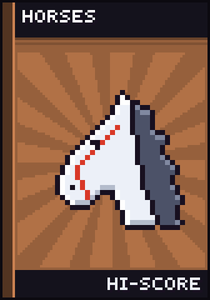
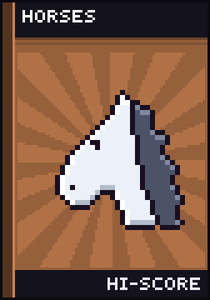
fix(art): draw the horses art without a bridle

Changed region(s): [[0.3429, 0.48, 0.4571, 0.69], [0.4571, 0.42, 0.5714, 0.48]]

diff --git a/tools/gen_theme_art.py b/tools/gen_theme_art.py
@@ -1157,15 +1157,12 @@ def ys(p):  # wings around the black pearl
     p.o(0, 0, 6)
 
 
-def horses(p):  # horse's head in a bridle
+def horses(p):  # a horse's head
     p.pg([(10, -40), (26, -36), (30, -26), (40, -24), (38, -12), (48, -6), (44, 6), (52, 14), (46, 26), (52, 36),
           (44, 46), (20, 46)], 3)
     head = spline([(14, 46), (8, 24), (0, 14), (-16, 22), (-30, 28), (-40, 20), (-38, 6), (-28, -14), (-14, -30),
                    (-2, -36), (6, -50), (14, -38), (24, -22), (34, 10), (40, 46)])
     p.path(head, True, opaque=True)
-    with p.inside(head):
-        p.c([(-44, -16), (-30, 4), (-18, 32)])
-        p.c([(-31, -1), (-14, -6), (2, -14), (14, -30), (22, -46)])
     p.o(-12, -16, 2.2)
     p.o(-12, -16, 0.8)
     p.o(-33, 17, 3)
